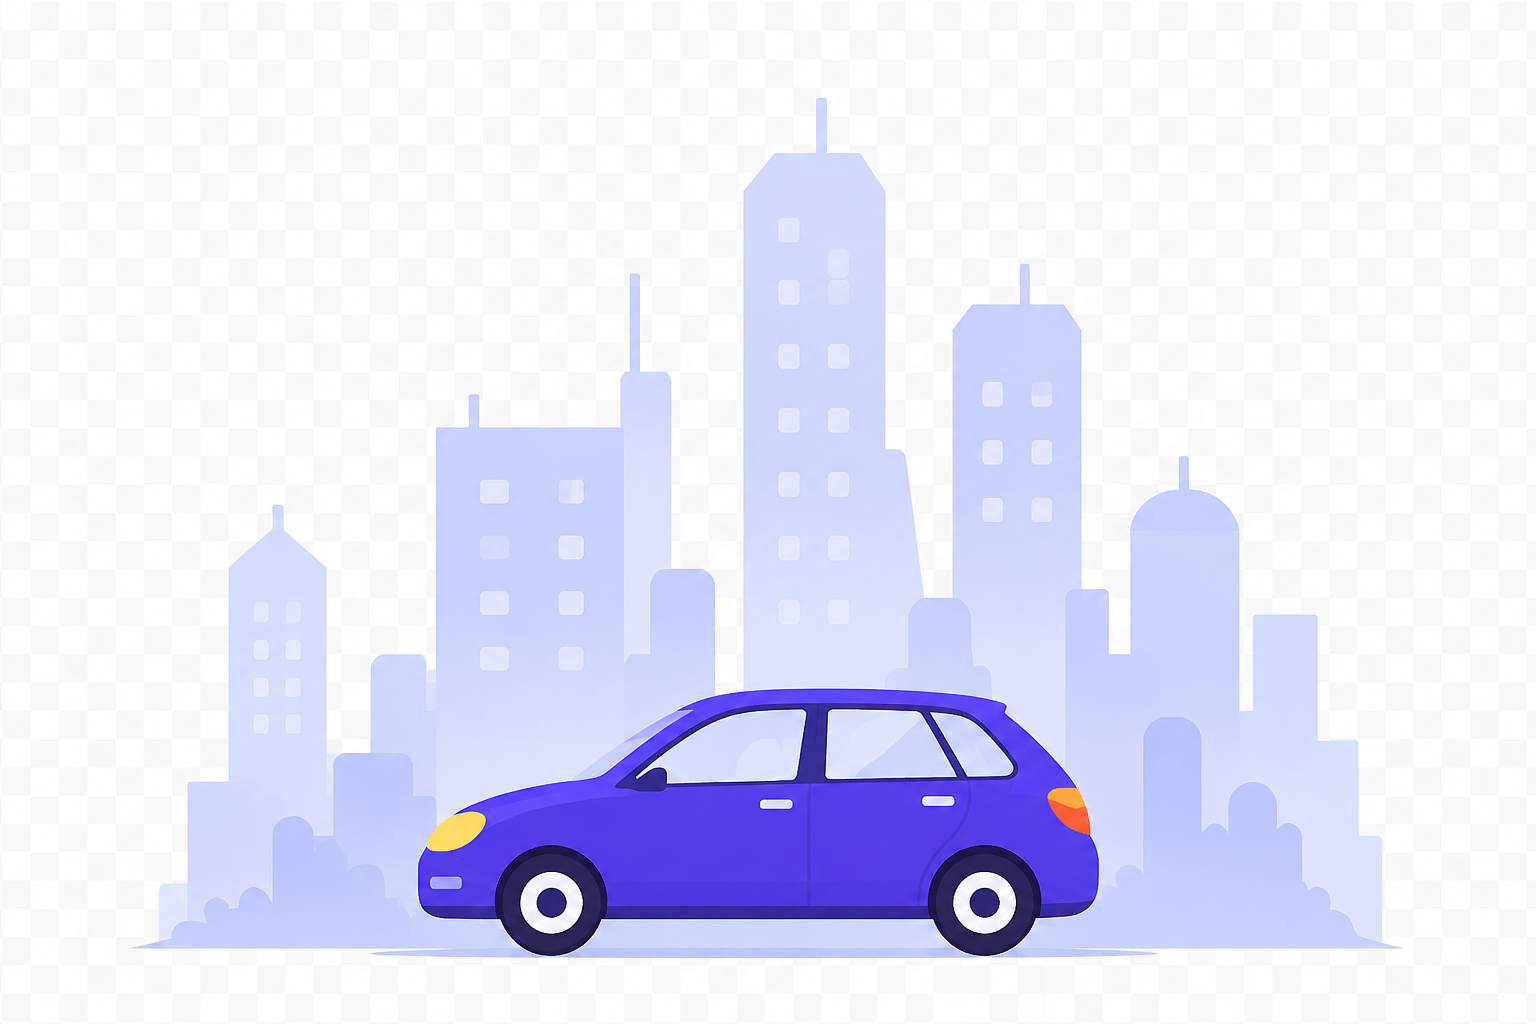
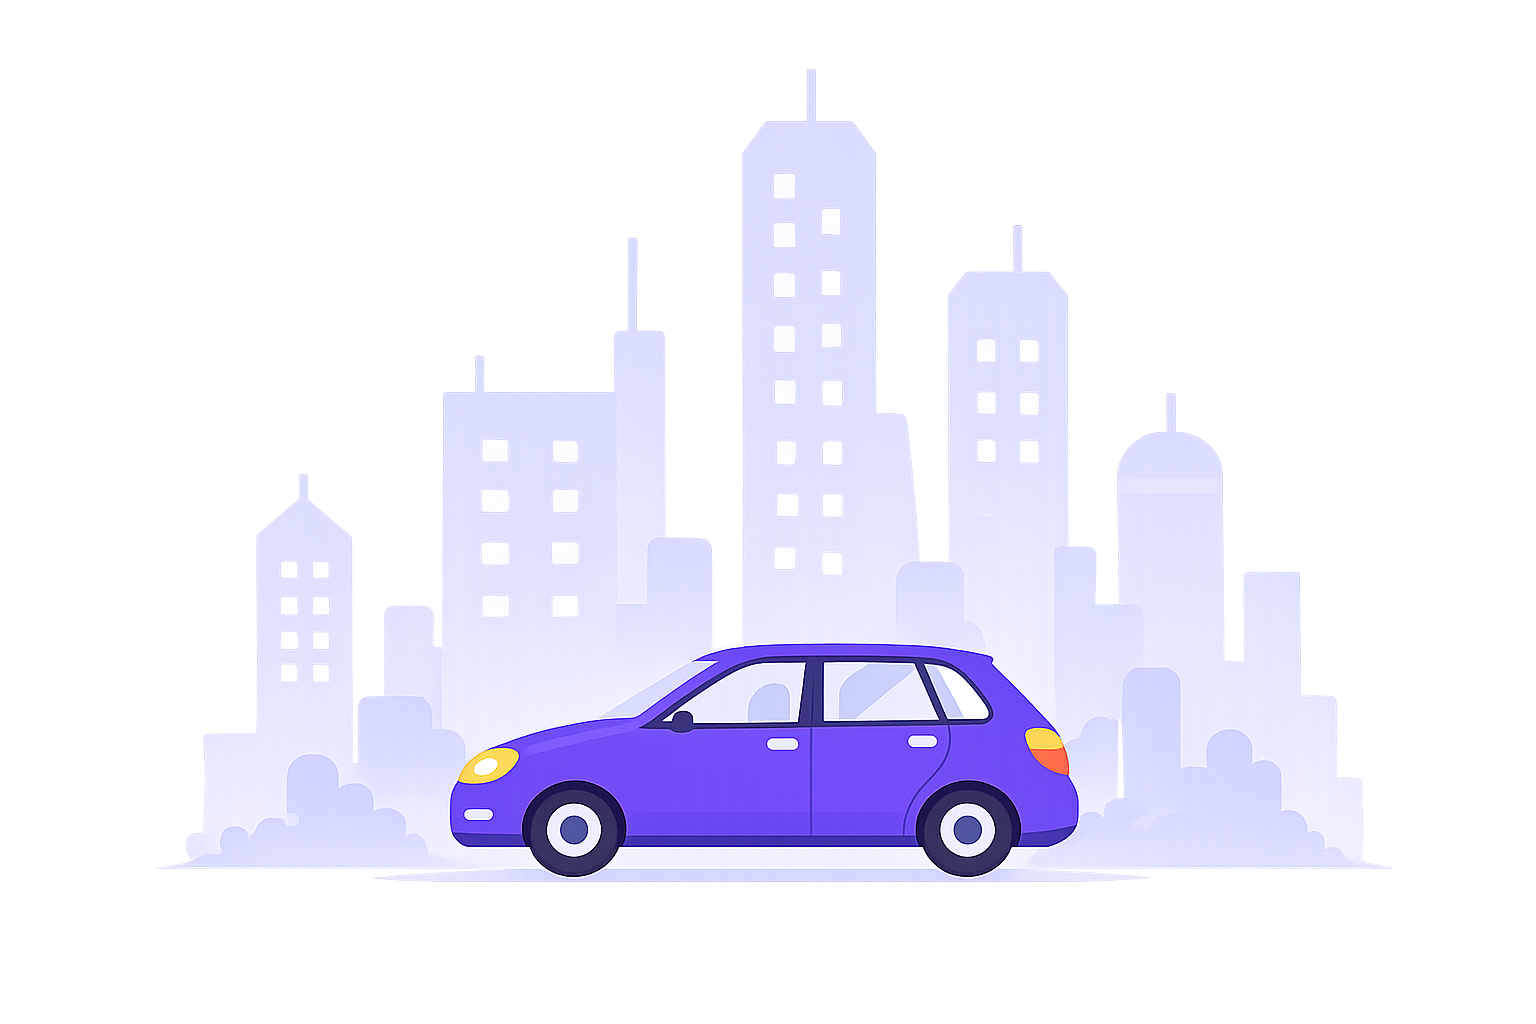
Enrich result screen with trip context, remove premature feedback prompt
- Add origin -> destination trip line (vertical stack: dot, connecting
  line, pin icon) and target arrival time to the hero, using the same
  icon language as the From/To input fields
- Add distanceMeters to TripResult type - already returned by the
  Edge Function, was never captured or displayed until now
- New 'Trip details' card: travel time (computed client-side from
  leave/arrival times), distance, data source, 'updated just now'
- Relabeled to 'Target arrival' to distinguish clearly from
  'Predicted arrival' (previously both said similar things with
  different values, read as a bug rather than two distinct fields)
- Removed the 'How did it go?' feedback prompt entirely (JSX, state,
  function, styles) - asking immediately after seeing a recommendation,
  before any travel happens, doesn't make sense; this was a known
  limitation flagged since the original feedback design and is now
  deferred to a proper post-trip-timing solution (local notification
  or next-session prompt) as future work
- Moved close button from top-right X to top-left back arrow - the
  X collided with wrapped address text now that trip details show
  full addresses instead of truncated ones
- Updated main_bg.png asset (background illustration)

diff --git a/app/App.tsx b/app/App.tsx
@@ -1,6 +1,6 @@
 import { useState, useEffect, useRef } from 'react';
 import { StatusBar } from 'expo-status-bar';
-import { StyleSheet, Text, View, Pressable, ActivityIndicator, ScrollView, Platform, Modal, TouchableWithoutFeedback, Keyboard } from 'react-native';
+import { StyleSheet, Text, View, Pressable, ActivityIndicator, ScrollView, Platform, Modal, TouchableWithoutFeedback, Keyboard, Image } from 'react-native';
 import * as Location from 'expo-location';
 import DateTimePicker from '@react-native-community/datetimepicker';
 import DestinationAutocomplete from './components/DestinationAutocomplete';
@@ -52,6 +52,7 @@ interface TripResult {
   confidenceScore: number;
   confidenceReason: string[];
   dataFreshness: string;
+  distanceMeters?: number;
   recommendationExplanation?: {
     factors: ExplanationFactor[];
   };
@@ -88,6 +89,20 @@ function confidenceColor(score: number): string {
   if (score >= 85) return COLORS.signalGood;
   if (score >= 70) return COLORS.signalWarn;
   return COLORS.signalRisk;
+}
+
+function formatTravelTime(leaveTime: string, arrivalTime: string): string {
+  const ms = new Date(arrivalTime).getTime() - new Date(leaveTime).getTime();
+  const totalMinutes = Math.round(ms / 60000);
+  const hours = Math.floor(totalMinutes / 60);
+  const minutes = totalMinutes % 60;
+  if (hours > 0) return `${hours} hr ${minutes} min`;
+  return `${minutes} min`;
+}
+
+function formatDistance(meters?: number): string | null {
+  if (meters === undefined) return null;
+  return `${(meters / 1000).toFixed(1)} km`;
 }
 
 function freshnessLabel(freshness: string): { text: string; color: string } {
@@ -156,8 +171,6 @@ export default function App() {
   const [loading, setLoading] = useState(false);
   const [result, setResult] = useState<TripResult | null>(null);
   const [error, setError] = useState<string | null>(null);
-  const [feedbackSubmitted, setFeedbackSubmitted] = useState(false);
-  const [feedbackSubmitting, setFeedbackSubmitting] = useState(false);
 
   useEffect(() => {
     (async () => {
@@ -242,7 +255,6 @@ export default function App() {
     setLoading(true);
     setError(null);
     setResult(null);
-    setFeedbackSubmitted(false);
     const loadingStartedAt = Date.now();
     const MIN_LOADING_MS = 1000;
 
@@ -285,25 +297,6 @@ export default function App() {
     }
   }
 
-  async function submitFeedback(rating: 'accurate' | 'close' | 'late') {
-    if (!result || feedbackSubmitted || feedbackSubmitting) return;
-    setFeedbackSubmitting(true);
-    try {
-      const userSuccess = rating !== 'late';
-      const { error: feedbackError } = await supabase.from('feedback').insert({
-        trip_id: result.tripId,
-        rating,
-        user_success: userSuccess,
-      });
-      if (feedbackError) throw feedbackError;
-      setFeedbackSubmitted(true);
-    } catch {
-      // Non-critical path: fail silently, user can simply not see confirmation.
-    } finally {
-      setFeedbackSubmitting(false);
-    }
-  }
-
   if (!fontsLoaded) {
     return (
       <View style={styles.fontLoadingContainer}>
@@ -319,7 +312,11 @@ export default function App() {
     <View style={styles.root}>
       <StatusBar style="dark" />
       <View style={styles.header}>
-        <Text style={styles.wordmark}>Airylio</Text>
+        <Image source={require('./assets/main_bg.png')} style={styles.headerBgImage} resizeMode="contain" />
+        <View style={styles.logoRow}>
+          <Image source={require('./assets/icon.png')} style={styles.logo} resizeMode="contain" />
+          <Text style={styles.logoText}>Airylio</Text>
+        </View>
         <Text style={styles.greeting}>{getGreeting()}</Text>
         <Text style={styles.greetingSub}>Where are you headed?</Text>
       </View>
@@ -520,9 +517,27 @@ export default function App() {
           <View style={styles.resultScreen}>
             <StatusBar style="light" />
             <View style={styles.resultHero}>
-              <Pressable style={styles.resultCloseButton} onPress={() => setResult(null)}>
-                <Ionicons name="close" size={22} color="#fff" />
+              <Pressable style={styles.resultBackButton} onPress={() => setResult(null)}>
+                <Ionicons name="arrow-back" size={22} color="#fff" />
               </Pressable>
+
+              <View style={styles.tripStack}>
+                <View style={styles.tripStackRow}>
+                  <View style={[styles.tripDot, { backgroundColor: '#fff' }]} />
+                  <Text style={styles.tripText} numberOfLines={2}>{originLabel}</Text>
+                </View>
+                <View style={styles.tripStackLine} />
+                <View style={styles.tripStackRow}>
+                  <Ionicons name="location" size={13} color={COLORS.signalRisk} />
+                  <Text style={styles.tripText} numberOfLines={2}>{destLabel}</Text>
+                </View>
+              </View>
+              <View style={styles.arrivalTargetRow}>
+                <Ionicons name="time-outline" size={13} color="rgba(255,255,255,0.7)" />
+                <Text style={styles.arrivalTargetText}>
+                  Target arrival {arrivalDateTime.toLocaleTimeString([], { hour: '2-digit', minute: '2-digit' })}
+                </Text>
+              </View>
 
               <View style={styles.freshnessBadgeRow}>
                 <View style={[styles.freshnessDot, { backgroundColor: freshness.color }]} />
@@ -577,37 +592,27 @@ export default function App() {
 
               <View style={styles.divider} />
 
-              <Text style={styles.feedbackPrompt}>How did it go?</Text>
-              {feedbackSubmitted ? (
-                <View style={styles.feedbackThanksRow}>
-                  <Ionicons name="checkmark-circle" size={18} color={COLORS.signalGood} />
-                  <Text style={styles.feedbackThanks}>Thanks for your feedback!</Text>
-                </View>
-              ) : (
-                <View style={styles.feedbackRow}>
-                  <Pressable
-                    style={styles.feedbackButton}
-                    onPress={() => submitFeedback('accurate')}
-                    disabled={feedbackSubmitting}
-                  >
-                    <Text style={styles.feedbackButtonText}>👍 On Time</Text>
-                  </Pressable>
-                  <Pressable
-                    style={styles.feedbackButton}
-                    onPress={() => submitFeedback('close')}
-                    disabled={feedbackSubmitting}
-                  >
-                    <Text style={styles.feedbackButtonText}>👌 Close</Text>
-                  </Pressable>
-                  <Pressable
-                    style={styles.feedbackButton}
-                    onPress={() => submitFeedback('late')}
-                    disabled={feedbackSubmitting}
-                  >
-                    <Text style={styles.feedbackButtonText}>👎 Late</Text>
-                  </Pressable>
+              <Text style={styles.whyTitle}>Trip details</Text>
+              <View style={styles.tripDetailRow}>
+                <Ionicons name="time-outline" size={16} color={COLORS.textSecondary} />
+                <Text style={styles.tripDetailLabel}>Travel time</Text>
+                <Text style={styles.tripDetailValue}>
+                  {formatTravelTime(result.recommendedLeaveTime, result.predictedArrivalTime)}
+                </Text>
+              </View>
+              {formatDistance(result.distanceMeters) && (
+                <View style={styles.tripDetailRow}>
+                  <Ionicons name="navigate-outline" size={16} color={COLORS.textSecondary} />
+                  <Text style={styles.tripDetailLabel}>Distance</Text>
+                  <Text style={styles.tripDetailValue}>{formatDistance(result.distanceMeters)}</Text>
                 </View>
               )}
+              <View style={styles.tripDetailRow}>
+                <Ionicons name="globe-outline" size={16} color={COLORS.textSecondary} />
+                <Text style={styles.tripDetailLabel}>Data source</Text>
+                <Text style={styles.tripDetailValue}>Google Routes</Text>
+              </View>
+              <Text style={styles.updatedText}>Updated just now</Text>
             </ScrollView>
           </View>
         )}
@@ -620,9 +625,18 @@ export default function App() {
 const styles = StyleSheet.create({
   root: { flex: 1, backgroundColor: COLORS.canvas },
   fontLoadingContainer: { flex: 1, alignItems: 'center', justifyContent: 'center', backgroundColor: COLORS.canvas },
-  header: { paddingTop: 56, paddingHorizontal: 20, paddingBottom: 16 },
-  wordmark: { fontFamily: 'Inter_600SemiBold', fontSize: 13, color: COLORS.accent, letterSpacing: 0.5, marginBottom: 14 },
-  greeting: { fontFamily: 'Poppins_700Bold', fontSize: 26, color: COLORS.textPrimary },
+  header: { paddingTop: 56, paddingHorizontal: 20, paddingBottom: 16, position: 'relative', overflow: 'hidden' },
+  headerBgImage: {
+    position: 'absolute',
+    top: 58,
+    right: -20,
+    width: 160,
+    height: 130,
+  },
+  logoRow: { flexDirection: 'row', alignItems: 'center', gap: 10, marginBottom: 14 },
+  logo: { width: 44, height: 44, borderRadius: 10 },
+  logoText: { fontFamily: 'Poppins_700Bold', fontSize: 20, color: COLORS.textPrimary },
+  greeting: { fontFamily: 'Poppins_700Bold', fontSize: 21, color: COLORS.textPrimary },
   greetingSub: { fontFamily: 'Inter_400Regular', fontSize: 14, color: COLORS.textSecondary, marginTop: 2 },
   card: {
     flex: 1,
@@ -700,10 +714,10 @@ const styles = StyleSheet.create({
 
   // Result modal (its own full screen)
   resultScreen: { flex: 1, backgroundColor: COLORS.card },
-  resultCloseButton: {
+  resultBackButton: {
     position: 'absolute',
     top: 54,
-    right: 20,
+    left: 20,
     zIndex: 2,
     width: 34,
     height: 34,
@@ -714,10 +728,21 @@ const styles = StyleSheet.create({
   },
   resultHero: {
     backgroundColor: COLORS.ink,
-    paddingTop: 64,
+    paddingTop: 100,
     paddingBottom: 28,
     paddingHorizontal: 24,
   },
+  tripStack: { marginBottom: 10 },
+  tripStackRow: { flexDirection: 'row', alignItems: 'flex-start', gap: 8 },
+  tripDot: { width: 6, height: 6, borderRadius: 3, marginTop: 5 },
+  tripStackLine: { width: 1, height: 12, backgroundColor: 'rgba(255,255,255,0.3)', marginLeft: 2.5, marginVertical: 2 },
+  tripText: { fontFamily: 'Inter_500Medium', fontSize: 13, color: 'rgba(255,255,255,0.9)', flex: 1 },
+  arrivalTargetRow: { flexDirection: 'row', alignItems: 'center', gap: 6, marginBottom: 14 },
+  arrivalTargetText: { fontFamily: 'Inter_400Regular', fontSize: 12, color: 'rgba(255,255,255,0.7)' },
+  tripDetailRow: { flexDirection: 'row', alignItems: 'center', gap: 10, marginBottom: 10 },
+  tripDetailLabel: { fontFamily: 'Inter_400Regular', fontSize: 13, color: COLORS.textSecondary, flex: 1 },
+  tripDetailValue: { fontFamily: 'Inter_600SemiBold', fontSize: 13, color: COLORS.textPrimary },
+  updatedText: { fontFamily: 'Inter_400Regular', fontSize: 12, color: COLORS.textSecondary, marginTop: 2 },
   freshnessBadgeRow: {
     flexDirection: 'row',
     alignItems: 'center',
@@ -741,18 +766,4 @@ const styles = StyleSheet.create({
   whyTitle: { fontFamily: 'Inter_600SemiBold', fontSize: 15, color: COLORS.textPrimary, marginBottom: 12 },
   reasonRow: { flexDirection: 'row', alignItems: 'flex-start', marginBottom: 12, gap: 10 },
   reasonText: { fontFamily: 'Inter_400Regular', fontSize: 13, color: COLORS.textSecondary, flex: 1 },
-  feedbackPrompt: { fontFamily: 'Inter_600SemiBold', fontSize: 15, color: COLORS.textPrimary, marginBottom: 12 },
-  feedbackRow: { flexDirection: 'row', gap: 8 },
-  feedbackButton: {
-    flex: 1,
-    paddingVertical: 12,
-    borderRadius: 14,
-    borderWidth: 1,
-    borderColor: COLORS.divider,
-    backgroundColor: COLORS.canvas,
-    alignItems: 'center',
-  },
-  feedbackButtonText: { fontFamily: 'Inter_500Medium', fontSize: 13, color: COLORS.textPrimary },
-  feedbackThanksRow: { flexDirection: 'row', alignItems: 'center', gap: 8 },
-  feedbackThanks: { fontFamily: 'Inter_600SemiBold', fontSize: 14, color: COLORS.signalGood },
 });
